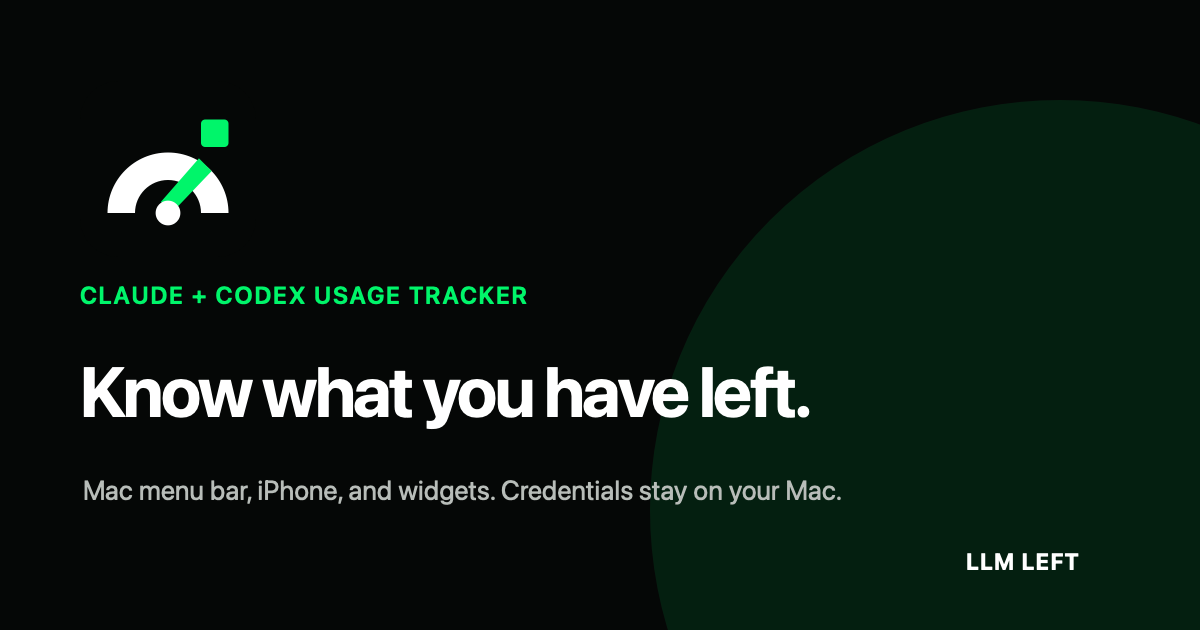
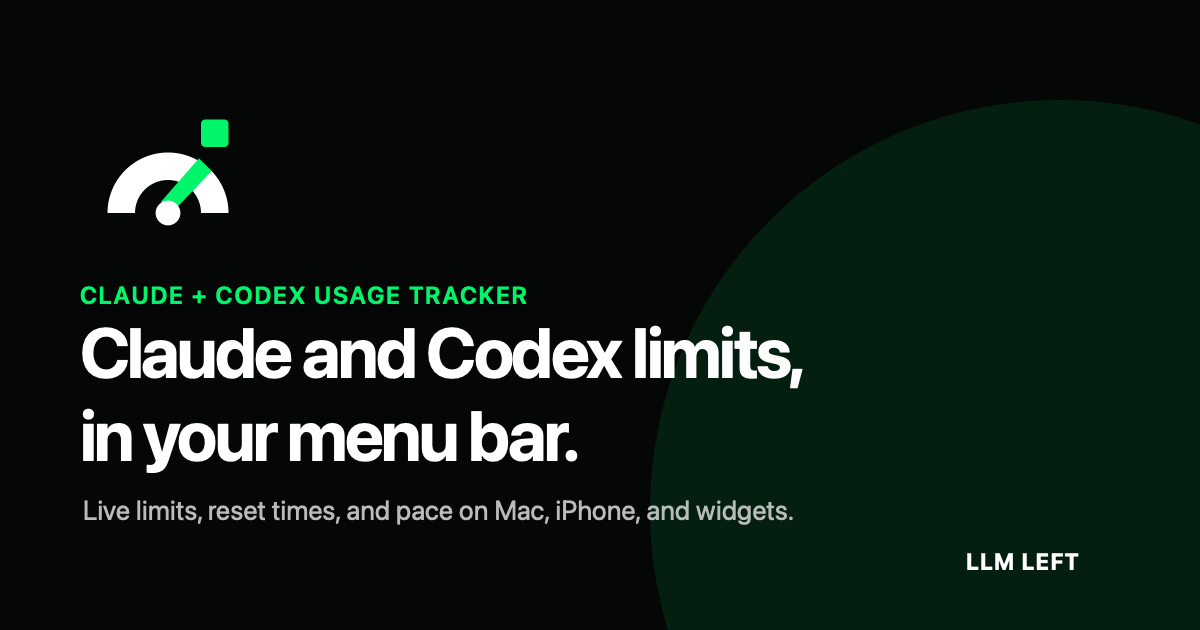
feat: concrete two-column hero and plain-spoken copy
The centered abstract hero ("Know what you have left.") over a wide
stage with floating devices read as empty and vague. The hero is now
copy on the left — "Claude and Codex limits, in your menu bar." with a
plain description of what the app does — and a Mac screen on the right
with the menu bar and panel filling the frame. The phone and widgets
already star in the Three Screens cards, so the stage is gone. Section
and closing headlines swap metaphor for meaning, and the OG image
matches the new headline.

Changed region(s): [[0.0617, 0.5127, 0.7092, 0.8444]]

diff --git a/src/styles/global.css b/src/styles/global.css
@@ -165,15 +165,18 @@ button, input, textarea, select { font: inherit; }
 .button-light:hover { border-color: #adb2ae; }
 
 .hero {
-  padding-top: 10.5rem;
-  padding-bottom: 7rem;
+  padding-top: 8.75rem;
+  padding-bottom: 6rem;
 }
 
-.hero-copy {
-  max-width: 68rem;
-  margin: 0 auto;
-  text-align: center;
+.hero-grid {
+  display: grid;
+  grid-template-columns: minmax(0, 0.95fr) minmax(0, 1.05fr);
+  align-items: center;
+  gap: 4rem;
 }
+
+.hero-copy { min-width: 0; }
 
 .hero-badge {
   display: inline-flex;
@@ -193,37 +196,34 @@ button, input, textarea, select { font: inherit; }
 .hero-badge span { width: 0.48rem; height: 0.48rem; border-radius: 50%; background: var(--green); box-shadow: 0 0 0 4px rgb(0 245 106 / 0.13); }
 
 .hero h1 {
-  max-width: 72rem;
-  margin: 1.5rem auto 0;
-  font-size: clamp(3.55rem, 7.4vw, 7.25rem);
+  margin: 1.4rem 0 0;
+  font-size: clamp(2.9rem, 3.9vw, 4.2rem);
   font-weight: 780;
-  letter-spacing: -0.072em;
-  line-height: 0.93;
+  letter-spacing: -0.052em;
+  line-height: 1.02;
   text-wrap: balance;
 }
-.hero-extension { display: block; color: #868b87; }
 .hero-lede {
-  max-width: 47rem;
-  margin: 1.8rem auto 0;
+  max-width: 34rem;
+  margin: 1.4rem 0 0;
   color: #565c58;
-  font-size: clamp(1.05rem, 1.6vw, 1.25rem);
-  line-height: 1.65;
-  text-wrap: balance;
+  font-size: 1.05rem;
+  line-height: 1.7;
 }
 
-.hero-actions { display: flex; flex-wrap: wrap; justify-content: center; gap: 0.75rem; margin-top: 2rem; }
-.hero-proof { display: flex; flex-wrap: wrap; justify-content: center; gap: 0.75rem 1.5rem; margin-top: 1.3rem; color: #6d726f; font-size: 0.78rem; font-weight: 600; }
+.hero-actions { display: flex; flex-wrap: wrap; gap: 0.75rem; margin-top: 1.9rem; }
+.hero-proof { display: flex; flex-wrap: wrap; gap: 0.75rem 1.4rem; margin-top: 1.25rem; color: #6d726f; font-size: 0.78rem; font-weight: 600; }
 .hero-proof span { display: inline-flex; align-items: center; gap: 0.35rem; }
 .hero-proof i { display: grid; place-items: center; width: 1rem; height: 1rem; border-radius: 50%; background: var(--green-wash); color: #007b35; font-size: 0.65rem; font-style: normal; }
 
-.product-stage {
+.hero-visual { min-width: 0; }
+.hero-screen {
   position: relative;
-  min-height: 37.5rem;
-  margin-top: 5.5rem;
+  min-height: 37rem;
   overflow: hidden;
   border: 1px solid #191c1a;
-  border-radius: 2.2rem;
-  background: #080b09;
+  border-radius: 1.7rem;
+  background: #0a0d0b;
   box-shadow: var(--shadow-stage);
   isolation: isolate;
 }
@@ -237,25 +237,16 @@ button, input, textarea, select { font: inherit; }
 }
 .stage-glow {
   position: absolute;
-  left: 43%;
-  bottom: -45%;
-  width: 58rem;
-  height: 44rem;
+  left: -22%;
+  bottom: -38%;
+  width: 36rem;
+  height: 30rem;
   border-radius: 50%;
-  background: radial-gradient(circle, rgb(0 245 106 / 0.34), rgb(0 245 106 / 0.06) 44%, transparent 70%);
+  background: radial-gradient(circle, rgb(0 245 106 / 0.3), rgb(0 245 106 / 0.06) 44%, transparent 70%);
   filter: blur(6px);
 }
-.stage-menubar { position: relative; z-index: 2; }
-.stage-menubar .mac-menubar { font-size: 0.78rem; padding: 0.55em 1.5em; }
-.stage-devices {
-  position: absolute;
-  z-index: 3;
-  inset: 2.6rem 4.5% 0;
-  display: flex;
-  align-items: flex-end;
-  justify-content: space-between;
-  gap: 2rem;
-}
+.hero-screen .mac-menubar { position: relative; z-index: 2; font-size: 0.74rem; padding: 0.55em 1.2em; }
+.hero-screen-panel { position: absolute; z-index: 3; top: 2.55rem; right: 1.3rem; font-size: 0.88rem; }
 
 /* ---------------------------------------------------------------------------
    Native app mockups — faithful replicas of the real LLM Left UI
@@ -369,11 +360,6 @@ button, input, textarea, select { font: inherit; }
 .mb-item { display: inline-flex; align-items: center; gap: 0.4em; border-radius: 0.35em; background: rgb(255 255 255 / 0.16); padding: 0.2em 0.5em; color: #f2f3f5; font-variant-numeric: tabular-nums; }
 .mb-item .mp-gauge { width: 1.05em; height: 1.05em; }
 
-/* Stage arrangement: menu bar on top, panel hanging from its status item,
-   phone and widgets grounded at the bottom like a desk scene */
-.stage-panel { order: 3; align-self: flex-start; font-size: 0.9rem; }
-.stage-widget { order: 2; display: grid; justify-items: center; gap: 0.9rem; margin-bottom: 3.2rem; font-size: 0.95rem; }
-.stage-phone { position: relative; z-index: 2; order: 1; font-size: 1rem; }
 
 .signal-strip { border-top: 1px solid var(--line); border-bottom: 1px solid var(--line); background: rgb(255 255 255 / 0.56); }
 .signal-grid { display: grid; grid-template-columns: repeat(3, 1fr); }
@@ -520,17 +506,14 @@ button, input, textarea, select { font: inherit; }
 .not-found h1 { margin: 1rem 0 0; font-size: clamp(3.2rem, 8vw, 7rem); font-weight: 780; letter-spacing: -0.075em; line-height: 0.92; }
 .not-found > p:not(.eyebrow) { color: var(--muted); }
 
-@media (max-width: 1080px) {
-  .stage-widget { display: none; }
-}
-
 @media (max-width: 900px) {
   .nav-links { display: none; }
   .nav-shell { grid-template-columns: 1fr auto; }
-  .hero { padding-top: 9.5rem; }
-  .stage-devices { inset: 2.4rem 4% 0; gap: 1.4rem; }
-  .stage-panel { font-size: 0.8rem; }
-  .stage-phone { font-size: 0.9rem; }
+  .hero { padding-top: 8.25rem; }
+  .hero-grid { grid-template-columns: 1fr; gap: 3rem; }
+  .hero-lede { max-width: 40rem; }
+  .hero-screen { min-height: 34rem; }
+  .hero-screen-panel { right: 1.6rem; font-size: 0.84rem; }
   .section-heading { grid-template-columns: 1fr; gap: 1.2rem; }
   .section-heading p { max-width: 38rem; }
   .surface-grid { grid-template-columns: 1fr; max-width: 30rem; margin-inline: auto; }
@@ -548,19 +531,17 @@ button, input, textarea, select { font: inherit; }
   .brand { gap: 0.5rem; font-size: 0.9rem; }
   .brand img { width: 1.8rem; height: 1.8rem; }
   .button-small { min-height: 2.65rem; padding: 0.58rem 0.75rem; font-size: 0.77rem; }
-  .hero { padding-top: 8.5rem; padding-bottom: 4.5rem; }
+  .hero { padding-top: 7.5rem; padding-bottom: 4.5rem; }
   .hero-badge { font-size: 0.62rem; }
-  .hero h1 { font-size: clamp(3.35rem, 16vw, 5.2rem); line-height: 0.9; }
-  .hero-extension { display: none; }
-  .hero-lede { margin-top: 1.35rem; font-size: 1rem; line-height: 1.58; }
+  .hero h1 { font-size: clamp(2.3rem, 9.2vw, 3rem); }
+  .hero-lede { margin-top: 1.2rem; font-size: 1rem; line-height: 1.6; }
   .hero-actions .button { width: 100%; }
   .hero-proof { gap: 0.55rem 1rem; }
-  .product-stage { min-height: 27rem; margin-top: 3.5rem; border-radius: 1.5rem; }
-  .stage-menubar .mac-menubar { font-size: 0.6rem; }
-  .stage-menubar .mb-left span:not(.mb-strong) { display: none; }
-  .stage-devices { inset: 1.9rem 0.7rem 0; gap: 0.7rem; }
-  .stage-panel { font-size: 0.58rem; }
-  .stage-phone { font-size: 0.56rem; }
+  .hero-grid { gap: 2.4rem; }
+  .hero-screen { min-height: 26.5rem; border-radius: 1.3rem; }
+  .hero-screen .mac-menubar { font-size: 0.6rem; }
+  .hero-screen .mb-left span:not(.mb-strong) { display: none; }
+  .hero-screen-panel { top: 1.9rem; right: 0.8rem; font-size: 0.64rem; }
   .signal-grid { grid-template-columns: 1fr; }
   .signal-grid span { padding: 0.8rem; font-size: 0.6rem; }
   .signal-grid span + span { border-top: 1px solid var(--line); border-left: 0; }

diff --git a/scripts/render-brand-assets.swift b/scripts/render-brand-assets.swift
@@ -102,7 +102,7 @@ writePNG(name: "og.png", width: 1200, height: 630) {
     let paragraph = NSMutableParagraphStyle()
     paragraph.lineSpacing = -4
     let headline = NSAttributedString(
-        string: "Know what you have left.",
+        string: "Claude and Codex limits,\nin your menu bar.",
         attributes: [
             .font: NSFont.systemFont(ofSize: 70, weight: .bold),
             .foregroundColor: NSColor.white,
@@ -110,16 +110,16 @@ writePNG(name: "og.png", width: 1200, height: 630) {
             .kern: -2.6,
         ]
     )
-    headline.draw(in: NSRect(x: 80, y: 185, width: 950, height: 96))
+    headline.draw(in: NSRect(x: 80, y: 150, width: 1040, height: 170))
 
     let subtitle = NSAttributedString(
-        string: "Mac menu bar, iPhone, and widgets. Credentials stay on your Mac.",
+        string: "Live limits, reset times, and pace on Mac, iPhone, and widgets.",
         attributes: [
             .font: NSFont.systemFont(ofSize: 27, weight: .regular),
             .foregroundColor: color(0xb8bdb9),
         ]
     )
-    subtitle.draw(in: NSRect(x: 83, y: 112, width: 900, height: 44))
+    subtitle.draw(in: NSRect(x: 83, y: 92, width: 900, height: 44))
 
     let wordmark = NSAttributedString(
         string: "LLM LEFT",
